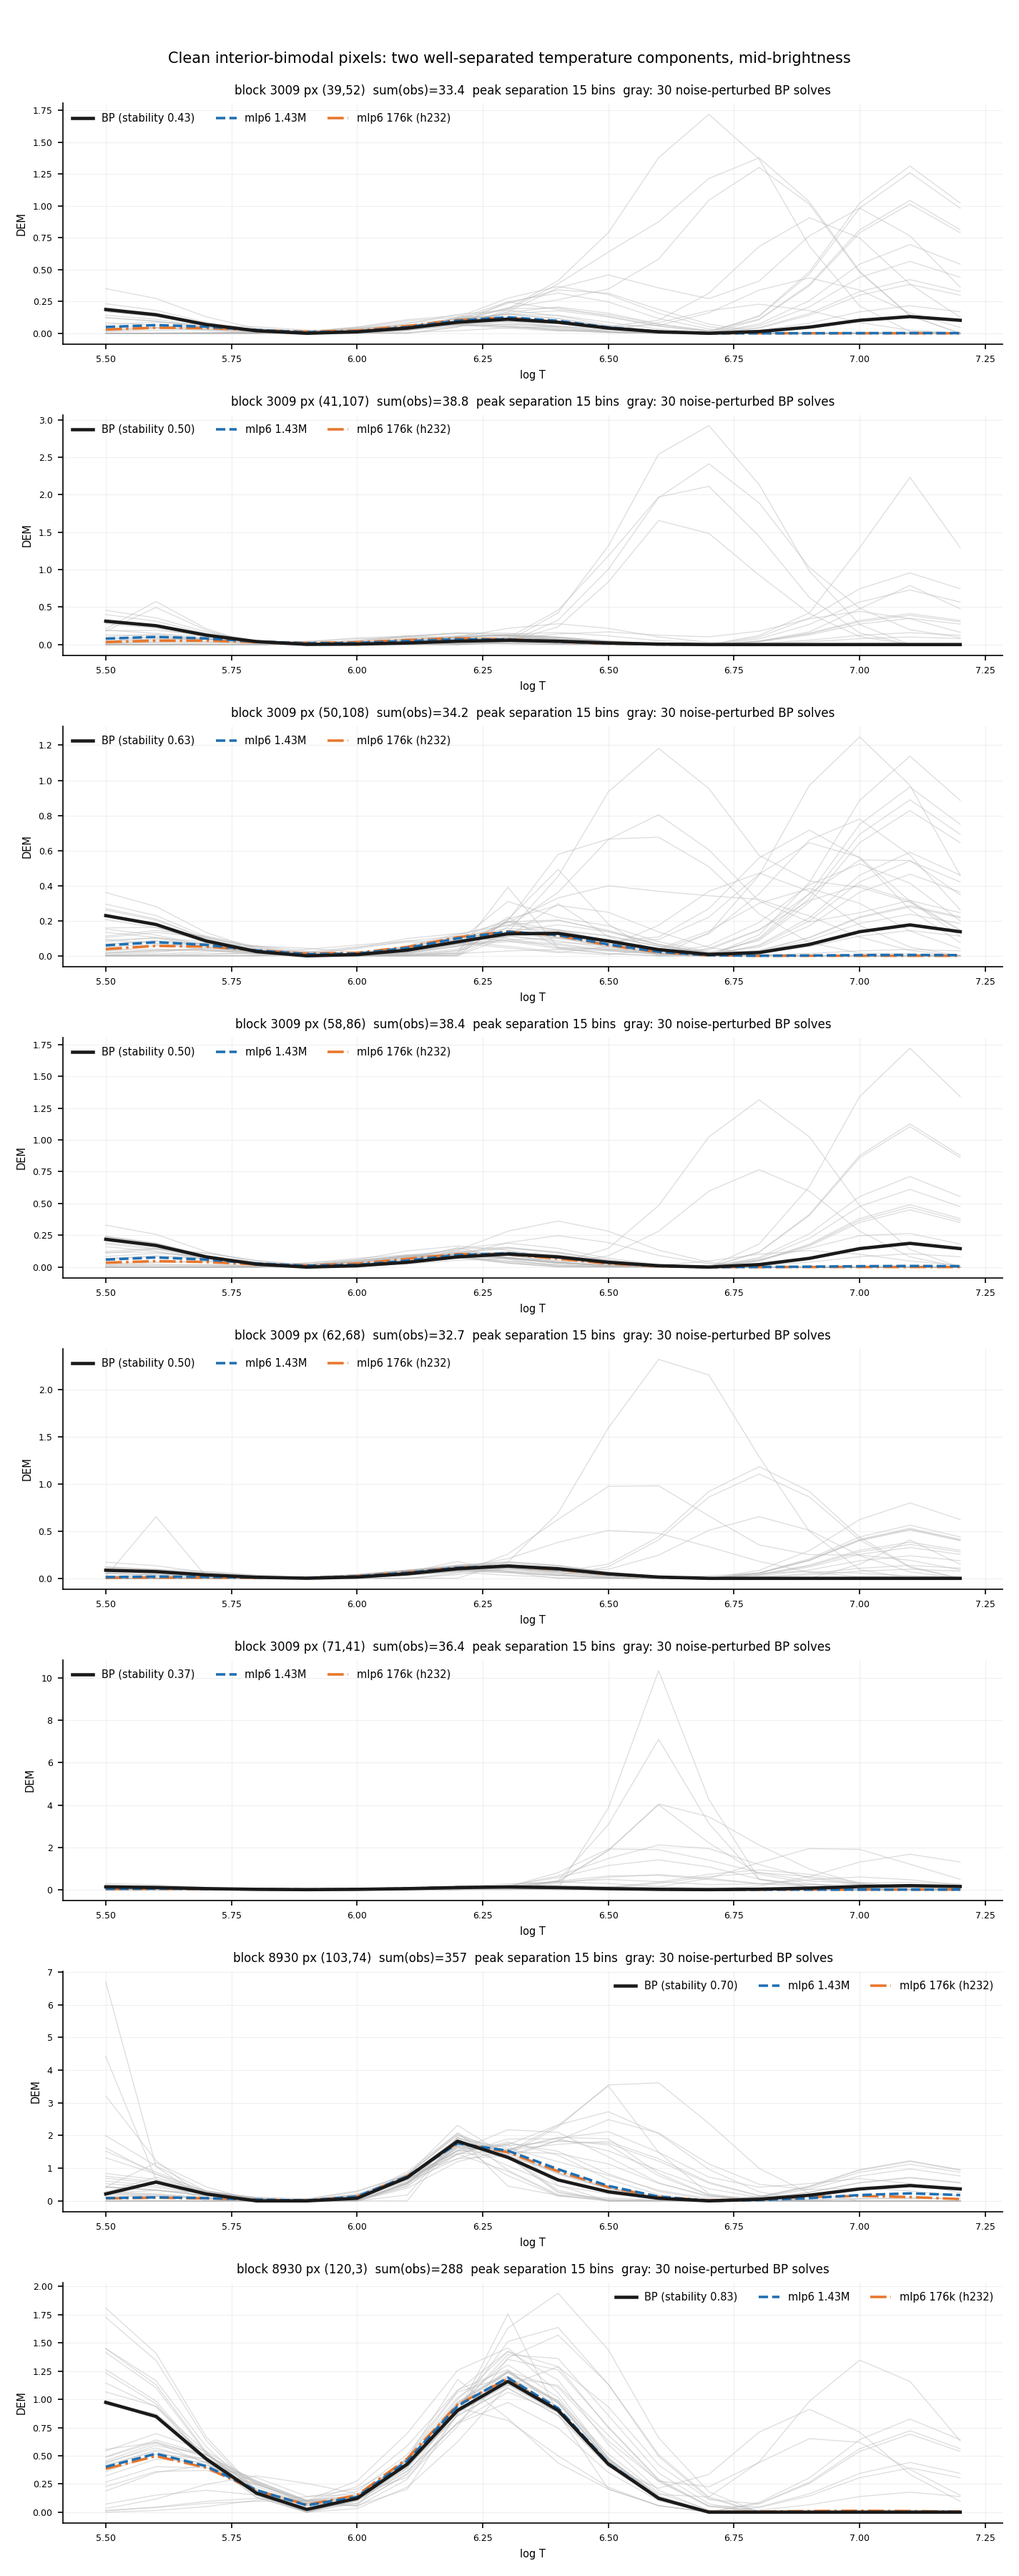
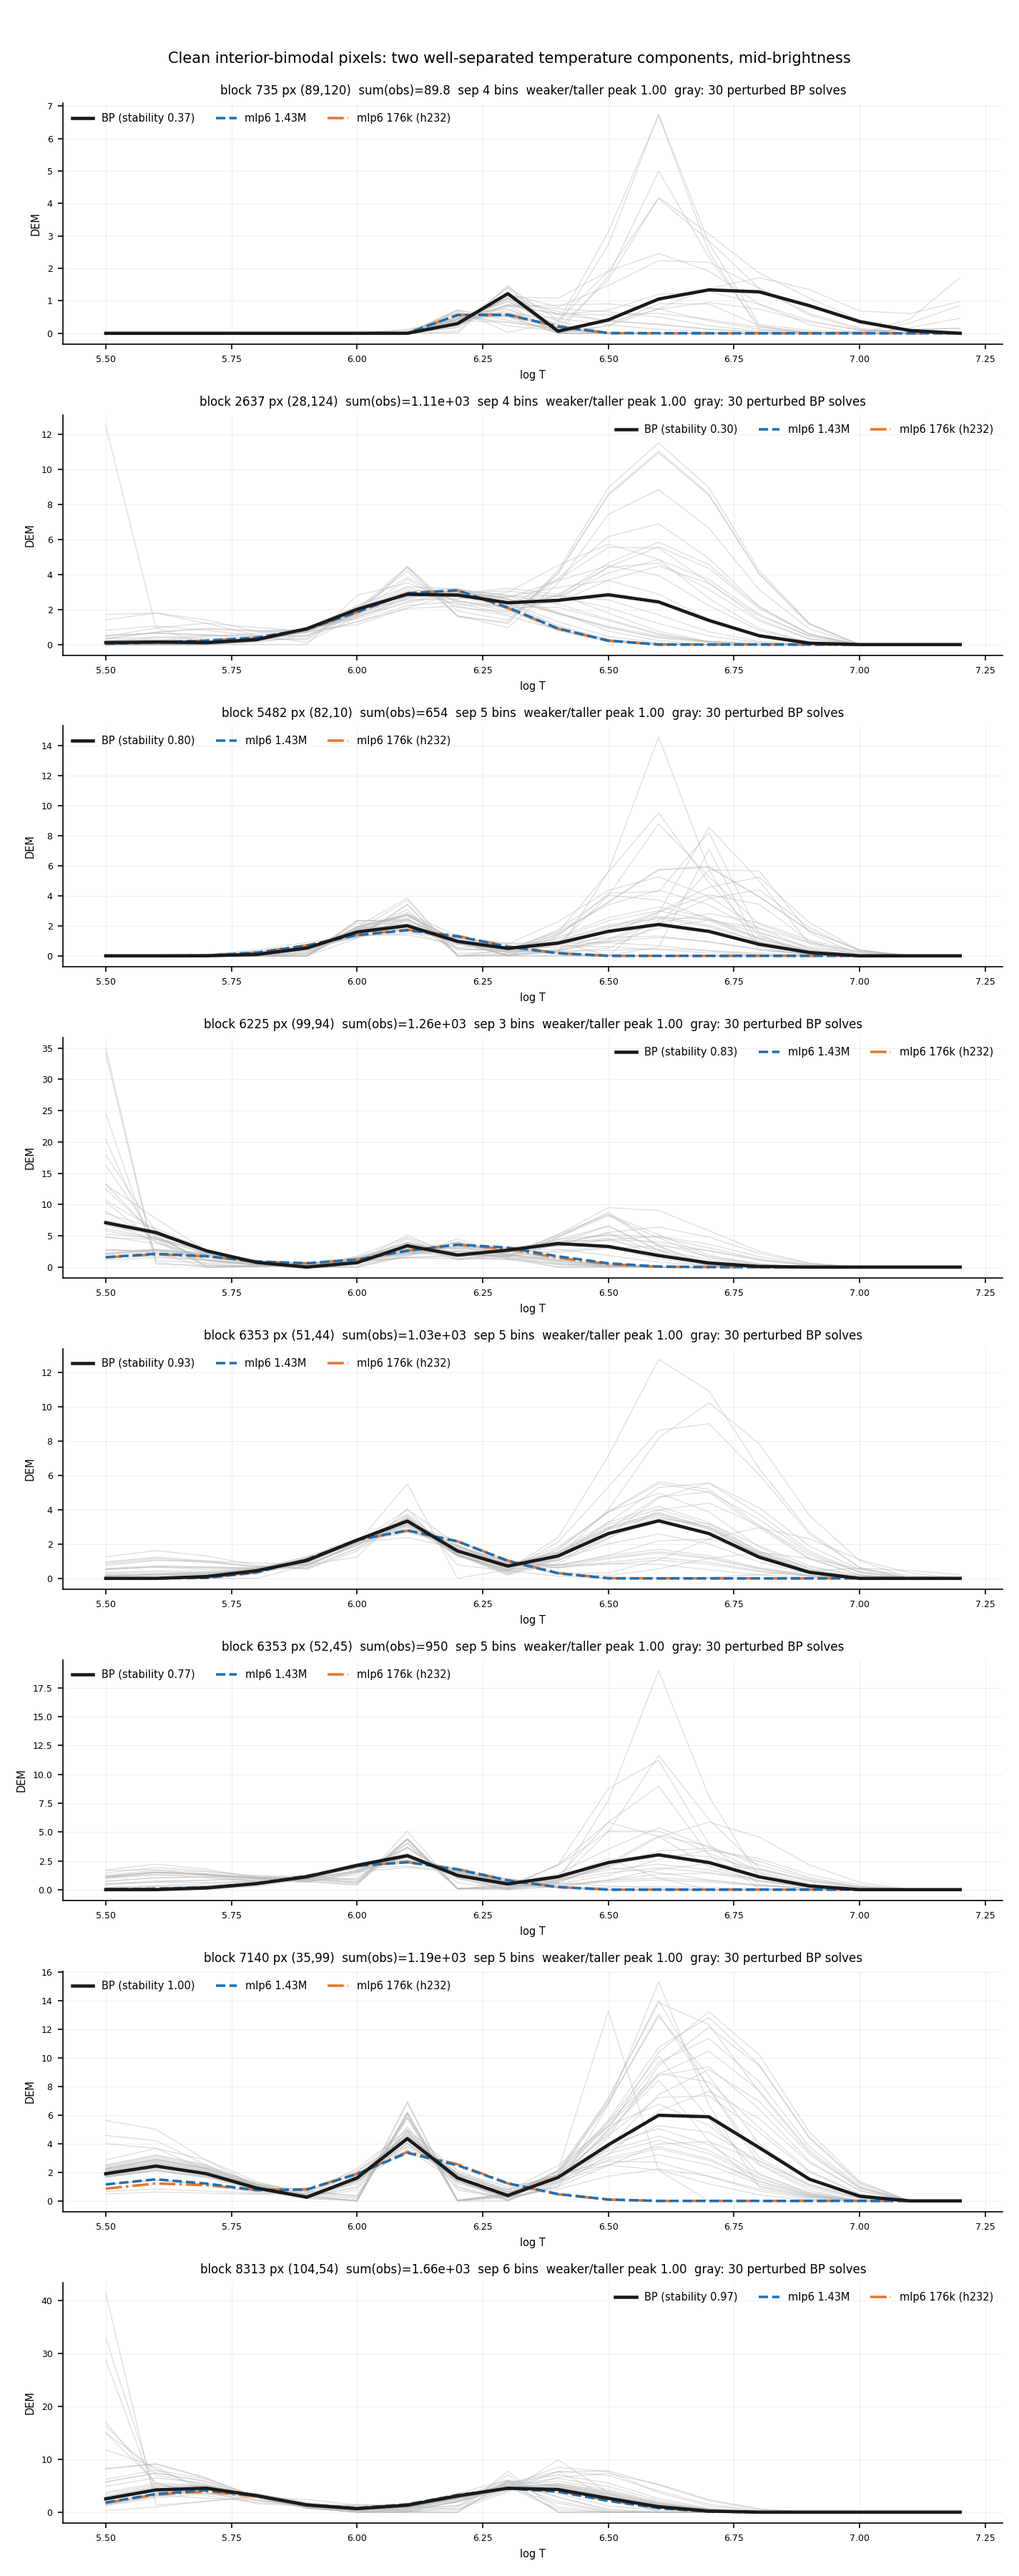
Show both bimodal groups: where the network reproduces both peaks and where it misses
The previous figure ranked BP's strongest double peaks and every panel showed
the network failing -- an accurate picture of the 29.85% recall, but it hides
the 80.75% precision entirely. Ranking by weaker-peak height selects
equal-height pairs, and those are overwhelmingly hot-second-peak cases, which
is the same 94A/131A undershoot from the loss-tail work showing up in DEM
space.

Now selects two labelled groups: pixels where the h232 network is also
bimodal (top) and where it is not (bottom). Showing either alone misleads in
opposite directions.

Also requires exactly two peaks by default -- 6 AIA channels cannot resolve
three independent temperature components, so a 3+ peak solution is a sparsity
artifact rather than a physical claim (--allow_three_plus to disable).

diff --git a/experiments/plot_final.py b/experiments/plot_final.py
@@ -126,26 +126,48 @@ def plot_curves(args, models, B_t, logT, device, out_dir):
 
 # ── figure 2: clean interior-bimodal examples ─────────────────────────────────
 
-def find_clean_bimodal(reader, block_ids, args):
+def _two_peak_shape(curve, prominence, m, args):
+    """(separation, weaker/taller ratio, weaker peak height) or None.
+
+    Exactly two peaks required when args.exact_two: with 6 AIA channels the
+    data cannot resolve three independent temperature components, so a 3+ peak
+    solution is a sparsity artifact rather than a physical claim.
+    """
+    T = len(curve)
+    n, where = count_peaks(curve, prominence)
+    mid = where[(where >= m) & (where <= T - 1 - m)]
+    if len(mid) < 2 or (args.exact_two and len(mid) != 2):
+        return None
+    sep = int(mid.max() - mid.min())
+    if not (args.min_sep <= sep <= args.max_sep):
+        return None
+    h = curve[mid]
+    return sep, float(h.min() / max(h.max(), 1e-12)), float(h.min())
+
+
+@torch.no_grad()
+def find_clean_bimodal(reader, block_ids, args, model=None, B_t=None,
+                       device=None, chunk=4096):
     """Pixels showing two genuine, comparable temperature components.
 
-    Four filters. The first version of this figure got each of them wrong in an
-    instructive way:
+    Filters, each of which replaced one that selected the wrong pixels:
 
-      * MIDDLE, not merely interior. Excluding only the outermost bin still
-        admits peaks one step in, which ride the same loss of AIA sensitivity.
-        Both peaks must sit in bins [edge_margin, T-1-edge_margin].
-      * Separation BOUNDED above as well as below. With 18 bins, "15 apart"
-        means bin 1 and bin 16 -- end-to-end, i.e. the boundary case again.
-        Ranking by widest separation actively selected for it.
-      * The weaker peak must be a real component, not a ripple: its height is
-        at least `--min_ratio` of the taller one. This is what "two temperature
-        components" actually means, and it is the ranking key.
-      * Brightness from the upper tail. The first attempt used a mid quantile
-        and drew pixels at sum(obs) ~35, where the DEM is ~0.1 and BP's own
-        perturbed solves scatter freely (stability 0.37-0.63). Faintness was
-        never the problem the mid-band was meant to solve; boundary peaks were,
-        and the middle-bin filter handles those directly.
+      * Peaks inside [edge_margin, T-1-edge_margin]. Excluding only the
+        outermost bin still admits peaks one step in, riding the same loss of
+        AIA sensitivity.
+      * Separation bounded ABOVE as well as below. With 18 bins, "15 apart" is
+        bin 1 and bin 16 -- end-to-end, the boundary case again. Ranking by
+        widest separation actively selected for it.
+      * Weaker peak at least `--min_ratio` of the taller, which is what "two
+        components" means rather than one peak plus a ripple.
+      * Brightness from the upper tail. A mid quantile drew pixels at sum(obs)
+        ~35 where the DEM is ~0.1 and BP's own perturbed solves scatter freely.
+
+    With `model` given, keeps only pixels where the NETWORK is also bimodal.
+    Without it the ranking finds BP's strongest double peaks, which are
+    overwhelmingly hot-second-peak cases the network misses -- a true picture of
+    the 29.85% recall, but it shows the model failing at every panel. Both
+    groups are real and the honest figure needs each labelled.
     """
     hits = []
     for b in block_ids:
@@ -158,52 +180,42 @@ def find_clean_bimodal(reader, block_ids, args):
         _, npk_in = count_peaks_batch(curves, args.prominence, interior=True)
         bright = obs[:, rows, cols].sum(axis=0)
         lo, hi = np.quantile(bright, [args.bright_lo, args.bright_hi])
-        T = curves.shape[1]
         m = args.edge_margin
 
+        cand = []
         for k in np.nonzero(npk_in >= 2)[0]:
             if not (lo <= bright[k] <= hi):
                 continue
-            n, where = count_peaks(curves[k], args.prominence)
-            mid = where[(where >= m) & (where <= T - 1 - m)]
-            if len(mid) < 2:
+            shape = _two_peak_shape(curves[k], args.prominence, m, args)
+            if shape is None or shape[1] < args.min_ratio:
                 continue
-            sep = int(mid.max() - mid.min())
-            if not (args.min_sep <= sep <= args.max_sep):
-                continue
-            heights = curves[k][mid]
-            ratio = float(heights.min() / max(heights.max(), 1e-12))
-            if ratio < args.min_ratio:
-                continue
+            cand.append((int(k), shape))
+        if not cand:
+            continue
+
+        if model is not None:
+            idx = np.array([k for k, _ in cand])
+            px = reader.gather(obs, err, tol, None, rows[idx], cols[idx])
+            patch = px["patch"]
+            keep = np.zeros(len(idx), dtype=bool)
+            for s in range(0, len(idx), chunk):
+                x = model(patch[s:s + chunk].to(device))
+                pred = (x @ B_t.T)[:, :N_AIA_BINS].cpu().numpy()
+                for t in range(pred.shape[0]):
+                    sh = _two_peak_shape(pred[t], args.prominence, m, args)
+                    keep[s + t] = sh is not None and sh[1] >= args.nn_min_ratio
+            cand = [c for c, kp in zip(cand, keep) if kp]
+
+        for k, (sep, ratio, weak_h) in cand:
             hits.append((int(b), int(rows[k]), int(cols[k]), float(bright[k]),
-                         sep, ratio))
+                         sep, ratio, weak_h))
     return hits
 
 
 @torch.no_grad()
-def plot_bimodal(args, models, D_t, B_t, logT, device, out_dir):
-    reader = BlockReader(args.bp_root, "test", patch_size=args.patch_size)
-    rng = np.random.default_rng(args.seed)
-    block_ids = rng.choice(len(reader), size=min(args.n_blocks_bimodal, len(reader)),
-                           replace=False)
-
-    hits = find_clean_bimodal(reader, block_ids, args)
-    print(f"  {len(hits)} candidates (both peaks in bins "
-          f"[{args.edge_margin},{N_AIA_BINS-1-args.edge_margin}], sep "
-          f"{args.min_sep}-{args.max_sep}, weaker peak >= {args.min_ratio:.2f} "
-          f"of taller, brightness {args.bright_lo:.2f}-{args.bright_hi:.2f} quantile)")
-    if not hits:
-        print("  none found; skipping bimodal figure")
-        return [], []
-
-    # Strongest weaker-peak first: the clearest cases of two comparable
-    # components. NOT widest separation -- that ranked end-to-end pairs top.
-    hits = sorted(hits, key=lambda h: -h[5])[:args.n_plot]
-    D64 = D_t.cpu().numpy().astype(np.float64)
-    B_np = B_t.cpu().numpy()
-
+def _build_records(reader, hits, models, B_t, D64, B_np, rng, args, device, group):
     recs = []
-    for (b, i, j, bright, sep, ratio) in sorted(hits, key=lambda h: h[0]):
+    for (b, i, j, bright, sep, ratio, weak_h) in sorted(hits, key=lambda h: h[0]):
         obs_a, err_a, tol_a, dem_a = reader.read_block(b)
         obs = obs_a[:, i, j].astype(np.float64)
         err = err_a[:, i, j].astype(np.float64)
@@ -226,13 +238,60 @@ def plot_bimodal(args, models, D_t, B_t, logT, device, out_dir):
         pred = {k: ((m(patch) @ B_t.T)[:, :N_AIA_BINS]).cpu().numpy()[0]
                 for k, m in models.items()}
         recs.append({"block": b, "i": i, "j": j, "bright": bright, "sep": sep,
-                     "ratio": ratio,
+                     "ratio": ratio, "group": group,
                      "stab": n_still / max(len(perturbed), 1),
                      "dem_bp": np.maximum(B_np @ x_bp, 0),
                      "perturbed": perturbed, "pred": pred})
+    return recs
 
+
+def plot_bimodal(args, models, D_t, B_t, logT, device, out_dir):
+    """Two groups, labelled: pixels the network reproduces, and pixels it misses.
+
+    Showing only one group misleads in opposite directions -- agreements alone
+    hide the 29.85% recall, misses alone hide the 80.75% precision. Both are
+    real and the figure has to carry both.
+    """
+    reader = BlockReader(args.bp_root, "test", patch_size=args.patch_size)
+    rng = np.random.default_rng(args.seed)
+    block_ids = rng.choice(len(reader), size=min(args.n_blocks_bimodal, len(reader)),
+                           replace=False)
+
+    crit = (f"peaks in bins [{args.edge_margin},{N_AIA_BINS-1-args.edge_margin}], "
+            f"sep {args.min_sep}-{args.max_sep}, weaker >= {args.min_ratio:.2f} "
+            f"of taller"
+            + (", exactly 2 peaks" if args.exact_two else ""))
+
+    agree = find_clean_bimodal(reader, block_ids, args,
+                               model=models[("barrier", "small")],
+                               B_t=B_t, device=device)
+    allhits = find_clean_bimodal(reader, block_ids, args)
+    agree_key = {(h[0], h[1], h[2]) for h in agree}
+    miss = [h for h in allhits if (h[0], h[1], h[2]) not in agree_key]
+    print(f"  {crit}")
+    print(f"  {len(agree)} where the {args.width_label} network is ALSO bimodal, "
+          f"{len(miss)} where it is not")
+    if not agree and not miss:
+        print("  none found; skipping bimodal figure")
+        return [], []
+
+    # Tallest weaker peak first -- visually unambiguous double peaks, and for
+    # the agreement group the ones that best show the model reproducing both.
+    n_each = max(args.n_plot // 2, 1)
+    picks = ([( "agrees", h) for h in sorted(agree, key=lambda h: -h[6])[:n_each]]
+             + [("misses", h) for h in sorted(miss, key=lambda h: -h[6])[:n_each]])
+
+    D64 = D_t.cpu().numpy().astype(np.float64)
+    B_np = B_t.cpu().numpy()
+    recs = []
+    for group in ("agrees", "misses"):
+        hs = [h for g, h in picks if g == group]
+        if hs:
+            recs += _build_records(reader, hs, models, B_t, D64, B_np, rng,
+                                   args, device, group)
     if not recs:
         return [], []
+    recs.sort(key=lambda r: (r["group"] != "agrees",))
 
     fig, axes = plt.subplots(len(recs), 1, figsize=(9.5, 3.0 * len(recs)),
                              squeeze=False)
@@ -245,9 +304,11 @@ def plot_bimodal(args, models, D_t, B_t, logT, device, out_dir):
                 **STYLE["base"])
         ax.plot(logT, r["pred"][("barrier", "small")],
                 label=f"mlp6 {args.width_label}", **STYLE["small"])
-        ax.set_title(f"block {r['block']} px ({r['i']},{r['j']})  "
+        tag = ("NETWORK REPRODUCES BOTH PEAKS" if r["group"] == "agrees"
+               else "NETWORK MISSES THE SECOND PEAK")
+        ax.set_title(f"[{tag}]  block {r['block']} px ({r['i']},{r['j']})  "
                      f"sum(obs)={r['bright']:.3g}  sep {r['sep']} bins  "
-                     f"weaker/taller peak {r['ratio']:.2f}  "
+                     f"weaker/taller {r['ratio']:.2f}  "
                      f"gray: {len(r['perturbed'])} perturbed BP solves",
                      fontsize=8)
         ax.set_xlabel("log T", fontsize=7)
@@ -258,8 +319,9 @@ def plot_bimodal(args, models, D_t, B_t, logT, device, out_dir):
         ax.grid(alpha=0.18, lw=0.5)
         ax.legend(fontsize=7, frameon=False, ncol=3)
 
-    fig.suptitle("Clean interior-bimodal pixels: two well-separated temperature "
-                 "components, mid-brightness", fontsize=10)
+    fig.suptitle("Bimodal BP pixels: where the network reproduces both "
+                 "components (top) and where it misses the hot one (bottom)",
+                 fontsize=10)
     fig.tight_layout(rect=[0, 0, 1, 0.985])
     p = os.path.join(out_dir, "final_bimodal.png")
     fig.savefig(p, dpi=args.dpi)
@@ -322,6 +384,13 @@ def parse_args():
                    help="peaks must sit in bins [margin, T-1-margin]")
     p.add_argument("--min_ratio", type=float, default=0.25,
                    help="weaker peak as a fraction of the taller one")
+    p.add_argument("--nn_min_ratio", type=float, default=0.15,
+                   help="same test on the network's curve; looser because the "
+                        "network's second peak is systematically shallower")
+    p.add_argument("--exact_two", action="store_true", default=True,
+                   help="require exactly 2 peaks: 6 AIA channels cannot resolve "
+                        "3 independent temperature components")
+    p.add_argument("--allow_three_plus", dest="exact_two", action="store_false")
     p.add_argument("--bright_lo", type=float, default=0.90)
     p.add_argument("--bright_hi", type=float, default=0.999)
     p.add_argument("--dpi", type=int, default=150)
